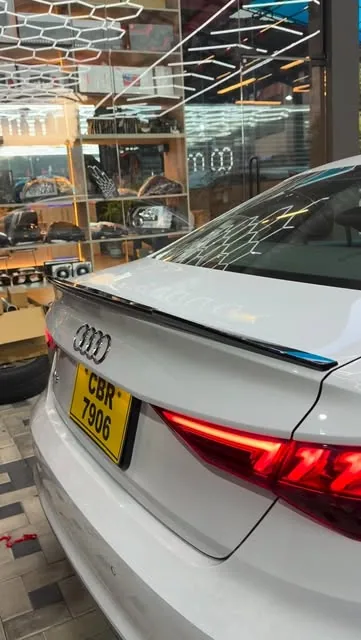
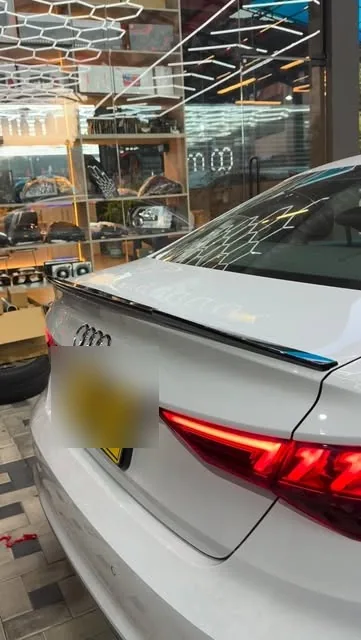
Redact customer number plates, and use the full-size Facebook photos
TWO CUSTOMER NUMBER PLATES WERE PUBLISHED

The previous commit shipped photographs with legible registrations on
them — CBR 7906 on the Audi, and a partial on the dusk headlight shot.
Those are other people's cars. A registration is identifying data, and
putting one on a shop's website, indexed and screenshot-able, is not
something the owner agreed to when they let their car be photographed
for Instagram. Both are now blurred.

Blurred rather than boxed: the crop is blurred in place, so it keeps the
surrounding tone and the picture still reads as a photograph instead of
an evidence exhibit. Regions are stored as fractions of the image so
they survive the resize into the three widths.

A third case was caught before it shipped. The best exterior shot has a
chassis and engine number card propped on the windscreen, fully legible
at 1440px. The hero and the gallery tile are both cropped from the upper
band of that frame, which excludes it — and the wider crop turns out to
be the better picture anyway, because it takes in the whole hexagon
lighting rig over the forecourt.

THE FACEBOOK PHOTOS WERE NOT 206px AFTER ALL

I had dismissed them: the Photos tab renders 206x206 thumbnails behind a
login wall, so I took the five gallery images off Instagram at 640px
instead. But 206 is only the display crop — the size is a URL parameter,
and the same public image serves at 1440x1440 when asked for it. Six of
them came back at 1440, well over twice what Instagram exposes.
[…]

Changed region(s): [[0.1219, 0.5312, 0.4571, 0.7188]]

diff --git a/src/data/images.generated.ts b/src/data/images.generated.ts
@@ -19,11 +19,11 @@ export interface GeneratedImage {
 
 export const generatedImages = {
   "hero-main": {
-    "alt": "Dark sports car at dusk",
-    "width": 2400,
-    "height": 1600,
[1 lines of base64/hex data omitted]
-    "source": "Unsplash"
+    "alt": "A car under the hexagon lighting rig at the Nexmod workshop in Dehiwala",
+    "width": 1440,
+    "height": 770,
[1 lines of base64/hex data omitted]
+    "source": "Nexmod"
   },
   "hero-alt": {
     "alt": "Low sports car in profile",
@@ -82,18 +82,18 @@ export const generatedImages = {
     "source": "Pexels"
   },
   "cat-interior": {
-    "alt": "Car interior at night",
-    "width": 2400,
-    "height": 1600,
[1 lines of base64/hex data omitted]
-    "source": "Unsplash"
+    "alt": "Coil floor mats fitted to a BYD driver footwell by Nexmod",
+    "width": 1440,
+    "height": 1440,
[1 lines of base64/hex data omitted]
+    "source": "Nexmod"
   },
   "cat-essentials": {
-    "alt": "Car being washed",
-    "width": 2400,
-    "height": 1600,
[1 lines of base64/hex data omitted]
-    "source": "Unsplash"
+    "alt": "Moulded boot tray fitted in a BYD load bay by Nexmod",
+    "width": 1440,
+    "height": 1440,
[1 lines of base64/hex data omitted]
+    "source": "Nexmod"
   },
   "cat-body-kits": {
     "alt": "Car in profile showing body lines",
@@ -152,17 +152,17 @@ export const generatedImages = {
     "source": "Pexels"
   },
   "build-01": {
-    "alt": "BYD SUV in the Nexmod workshop at Dehiwala under the hexagon LED ceiling",
-    "width": 640,
-    "height": 640,
[1 lines of base64/hex data omitted]
+    "alt": "BYD SUV at the Nexmod workshop after a mat and accessory fit",
+    "width": 1130,
+    "height": 1130,
[1 lines of base64/hex data omitted]
     "source": "Nexmod"
   },
   "build-02": {
-    "alt": "Land Rover Defender in for bodywork at the Nexmod workshop",
-    "width": 361,
-    "height": 640,
[1 lines of base64/hex data omitted]
+    "alt": "Coil floor mats fitted to a BYD passenger footwell at Nexmod",
+    "width": 1440,
+    "height": 1440,
[1 lines of base64/hex data omitted]
     "source": "Nexmod"
   },
   "build-03": {
@@ -173,25 +173,25 @@ export const generatedImages = {
     "source": "Nexmod"
   },
   "build-04": {
-    "alt": "Audi with an LED rear light bar fitted, in the Nexmod showroom",
+    "alt": "Audi fitted with an LED rear light bar, in the Nexmod showroom",
     "width": 361,
     "height": 640,
[2 lines of base64/hex data omitted]
     "source": "Nexmod"
   },
   "build-05": {
     "alt": "Car running upgraded headlights at dusk in Colombo",
     "width": 640,
     "height": 360,
[2 lines of base64/hex data omitted]
     "source": "Nexmod"
   },
   "build-06": {
-    "alt": "Supercar in a showroom",
-    "width": 2400,
-    "height": 1600,
[1 lines of base64/hex data omitted]
-    "source": "Unsplash"
+    "alt": "Coil mats and sill trim fitted through a BYD cabin at Nexmod Dehiwala",
+    "width": 1440,
+    "height": 1440,
[1 lines of base64/hex data omitted]
+    "source": "Nexmod"
   }
 } as const satisfies Record<string, GeneratedImage>;
 
